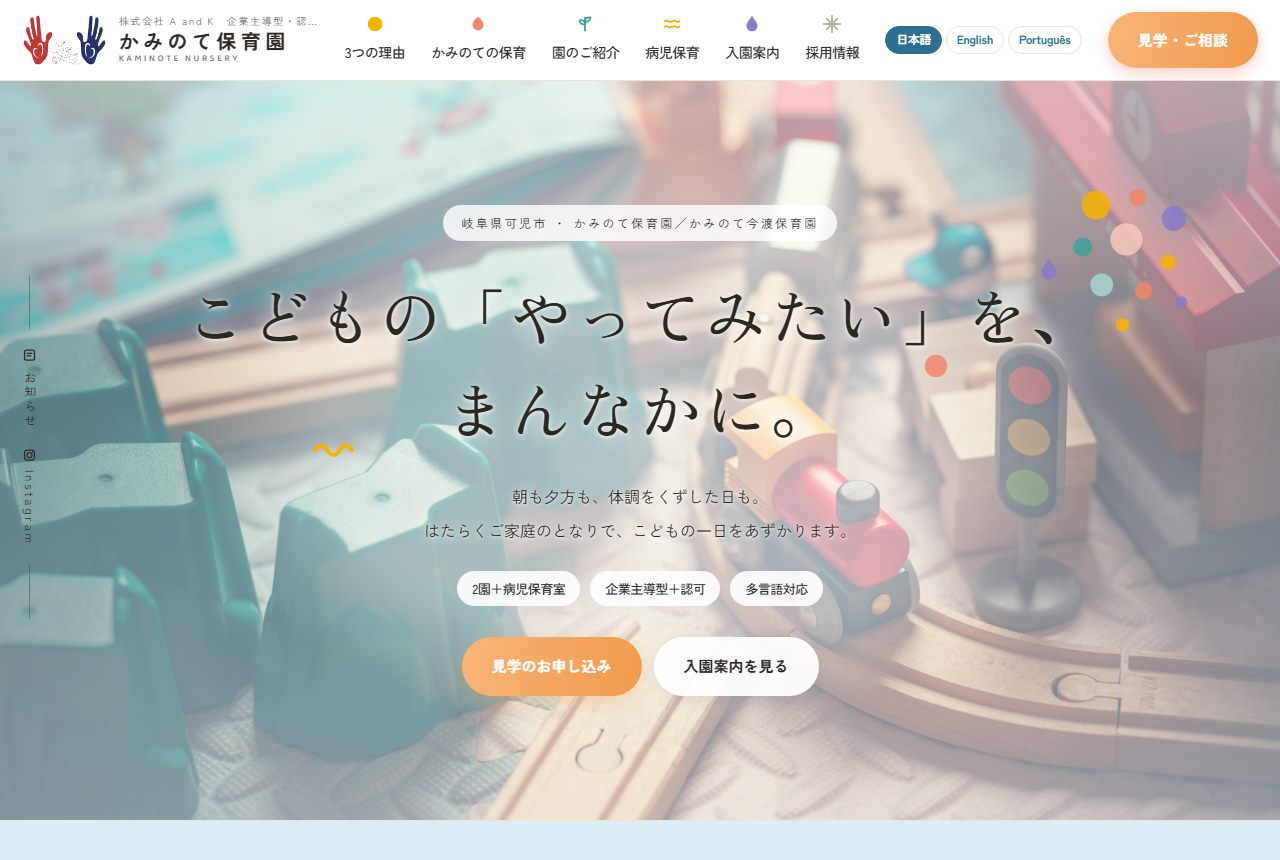
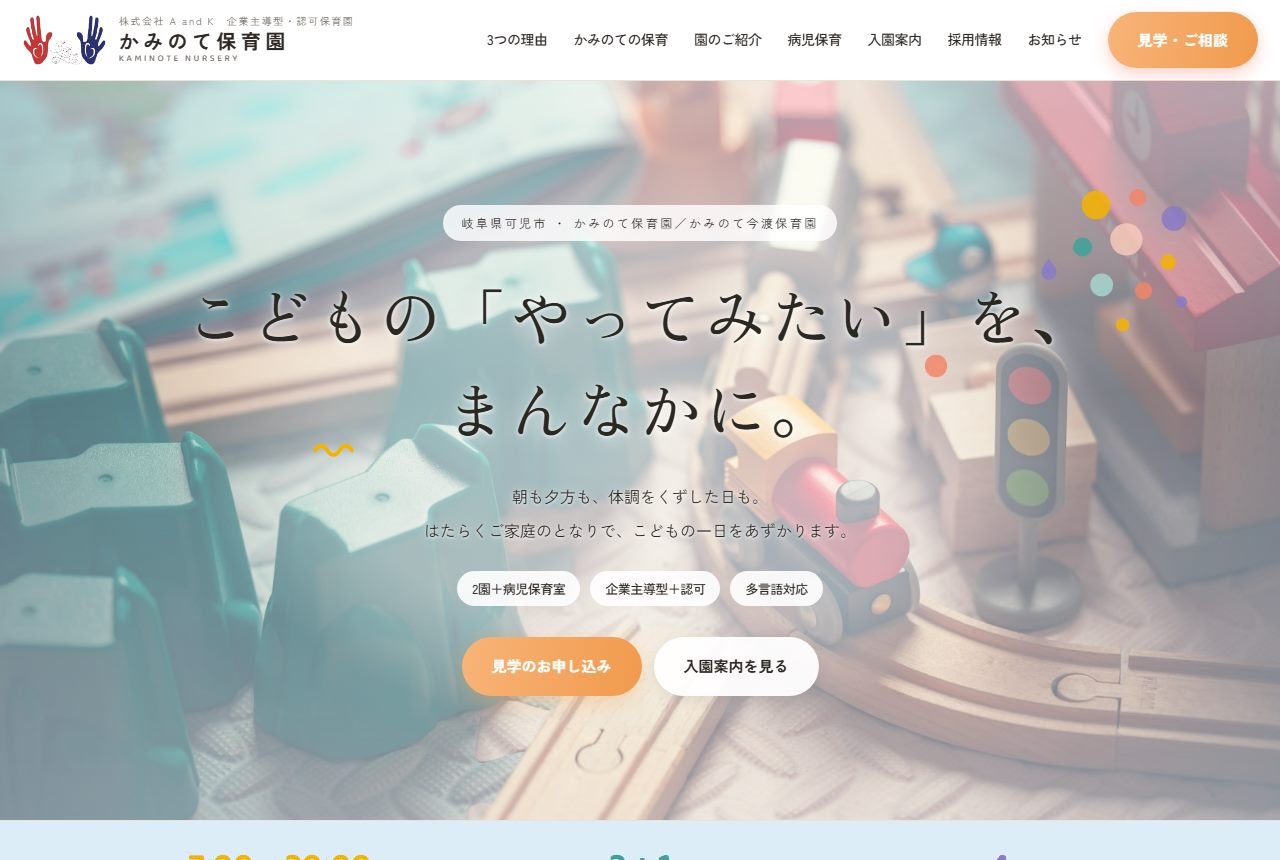
リンクを分割版に差し替え、キャプチャを撮り直す

diff --git a/design.html b/design.html
@@ -577,6 +577,7 @@
       <h2>デザイン案</h2>
       <p class="lede">
         トップ画面のキャプチャです。「実物を見る」から開くと、最後まで見られます。
+        メニューの各項目はそれぞれ別のページになっていますので、そちらもあわせてご覧ください。
       </p>
 
       <p style="margin:0 0 1.4rem">まず保育園サイトの3案です。
@@ -588,33 +589,33 @@
         <div class="mock-head">
           <h3>保育園サイト　案A</h3>
         </div>
-        <a class="shot" href="https://k-matsumoto527.github.io/kaminote-design/plan-a.html" target="_blank" rel="noopener">
+        <a class="shot" href="https://k-matsumoto527.github.io/kaminote-design/a/" target="_blank" rel="noopener">
           <img src="img/preview-a.jpg" alt="保育園サイト トップページ デザイン案A" width="1280" height="860" loading="lazy">
         </a>
-        <a class="open-btn" href="https://k-matsumoto527.github.io/kaminote-design/plan-a.html" target="_blank" rel="noopener">実物を見る</a>
-        <div class="open-url">https://k-matsumoto527.github.io/kaminote-design/plan-a.html</div>
+        <a class="open-btn" href="https://k-matsumoto527.github.io/kaminote-design/a/" target="_blank" rel="noopener">実物を見る</a>
+        <div class="open-url">https://k-matsumoto527.github.io/kaminote-design/a/</div>
       </div>
 
       <div class="mock">
         <div class="mock-head">
           <h3>保育園サイト　案B</h3>
         </div>
-        <a class="shot" href="https://k-matsumoto527.github.io/kaminote-design/plan-b.html" target="_blank" rel="noopener">
+        <a class="shot" href="https://k-matsumoto527.github.io/kaminote-design/b/" target="_blank" rel="noopener">
           <img src="img/preview-b.jpg" alt="保育園サイト トップページ デザイン案B" width="1280" height="854" loading="lazy">
         </a>
-        <a class="open-btn" href="https://k-matsumoto527.github.io/kaminote-design/plan-b.html" target="_blank" rel="noopener">実物を見る</a>
-        <div class="open-url">https://k-matsumoto527.github.io/kaminote-design/plan-b.html</div>
+        <a class="open-btn" href="https://k-matsumoto527.github.io/kaminote-design/b/" target="_blank" rel="noopener">実物を見る</a>
+        <div class="open-url">https://k-matsumoto527.github.io/kaminote-design/b/</div>
       </div>
 
       <div class="mock">
         <div class="mock-head">
           <h3>保育園サイト　案C</h3>
         </div>
-        <a class="shot" href="https://k-matsumoto527.github.io/kaminote-design/plan-c.html" target="_blank" rel="noopener">
+        <a class="shot" href="https://k-matsumoto527.github.io/kaminote-design/c/" target="_blank" rel="noopener">
           <img src="img/preview-c.jpg" alt="保育園サイト トップページ デザイン案C" width="1280" height="860" loading="lazy">
         </a>
-        <a class="open-btn" href="https://k-matsumoto527.github.io/kaminote-design/plan-c.html" target="_blank" rel="noopener">実物を見る</a>
-        <div class="open-url">https://k-matsumoto527.github.io/kaminote-design/plan-c.html</div>
+        <a class="open-btn" href="https://k-matsumoto527.github.io/kaminote-design/c/" target="_blank" rel="noopener">実物を見る</a>
+        <div class="open-url">https://k-matsumoto527.github.io/kaminote-design/c/</div>
       </div>
 
       <p style="margin:2.4rem 0 1.4rem">放課後等デイサイトも、同じ3つの方向で3案お作りしました。
@@ -644,33 +645,33 @@
         <div class="mock-head">
           <h3>放課後等デイサイト　案A</h3>
         </div>
-        <a class="shot" href="https://k-matsumoto527.github.io/kaminote-day-design/plan-a.html" target="_blank" rel="noopener">
+        <a class="shot" href="https://k-matsumoto527.github.io/kaminote-day-design/a/" target="_blank" rel="noopener">
           <img src="img/preview-day-a.jpg" alt="放課後等デイサイト トップページ デザイン案A" width="1280" height="860" loading="lazy">
         </a>
-        <a class="open-btn" href="https://k-matsumoto527.github.io/kaminote-day-design/plan-a.html" target="_blank" rel="noopener">実物を見る</a>
-        <div class="open-url">https://k-matsumoto527.github.io/kaminote-day-design/plan-a.html</div>
+        <a class="open-btn" href="https://k-matsumoto527.github.io/kaminote-day-design/a/" target="_blank" rel="noopener">実物を見る</a>
+        <div class="open-url">https://k-matsumoto527.github.io/kaminote-day-design/a/</div>
       </div>
 
       <div class="mock">
         <div class="mock-head">
           <h3>放課後等デイサイト　案B</h3>
         </div>
-        <a class="shot" href="https://k-matsumoto527.github.io/kaminote-day-design/plan-b.html" target="_blank" rel="noopener">
+        <a class="shot" href="https://k-matsumoto527.github.io/kaminote-day-design/b/" target="_blank" rel="noopener">
           <img src="img/preview-day-b.jpg" alt="放課後等デイサイト トップページ デザイン案B" width="1280" height="860" loading="lazy">
         </a>
-        <a class="open-btn" href="https://k-matsumoto527.github.io/kaminote-day-design/plan-b.html" target="_blank" rel="noopener">実物を見る</a>
-        <div class="open-url">https://k-matsumoto527.github.io/kaminote-day-design/plan-b.html</div>
+        <a class="open-btn" href="https://k-matsumoto527.github.io/kaminote-day-design/b/" target="_blank" rel="noopener">実物を見る</a>
+        <div class="open-url">https://k-matsumoto527.github.io/kaminote-day-design/b/</div>
       </div>
 
       <div class="mock">
         <div class="mock-head">
           <h3>放課後等デイサイト　案C</h3>
         </div>
-        <a class="shot" href="https://k-matsumoto527.github.io/kaminote-day-design/plan-c.html" target="_blank" rel="noopener">
+        <a class="shot" href="https://k-matsumoto527.github.io/kaminote-day-design/c/" target="_blank" rel="noopener">
           <img src="img/preview-day-c.jpg" alt="放課後等デイサイト トップページ デザイン案C" width="1280" height="860" loading="lazy">
         </a>
-        <a class="open-btn" href="https://k-matsumoto527.github.io/kaminote-day-design/plan-c.html" target="_blank" rel="noopener">実物を見る</a>
-        <div class="open-url">https://k-matsumoto527.github.io/kaminote-day-design/plan-c.html</div>
+        <a class="open-btn" href="https://k-matsumoto527.github.io/kaminote-day-design/c/" target="_blank" rel="noopener">実物を見る</a>
+        <div class="open-url">https://k-matsumoto527.github.io/kaminote-day-design/c/</div>
       </div>
 
       <div class="callout" style="margin-top:2rem">

diff --git a/src/design-kaminote.html b/src/design-kaminote.html
@@ -554,6 +554,7 @@
       <h2>デザイン案</h2>
       <p class="lede">
         トップ画面のキャプチャです。「実物を見る」から開くと、最後まで見られます。
+        メニューの各項目はそれぞれ別のページになっていますので、そちらもあわせてご覧ください。
       </p>
 
       <p style="margin:0 0 1.4rem">まず保育園サイトの3案です。
@@ -565,33 +566,33 @@
         <div class="mock-head">
           <h3>保育園サイト　案A</h3>
         </div>
-        <a class="shot" href="https://k-matsumoto527.github.io/kaminote-design/plan-a.html" target="_blank" rel="noopener">
+        <a class="shot" href="https://k-matsumoto527.github.io/kaminote-design/a/" target="_blank" rel="noopener">
           <img src="img/preview-a.jpg" alt="保育園サイト トップページ デザイン案A" width="1280" height="860" loading="lazy">
         </a>
-        <a class="open-btn" href="https://k-matsumoto527.github.io/kaminote-design/plan-a.html" target="_blank" rel="noopener">実物を見る</a>
-        <div class="open-url">https://k-matsumoto527.github.io/kaminote-design/plan-a.html</div>
+        <a class="open-btn" href="https://k-matsumoto527.github.io/kaminote-design/a/" target="_blank" rel="noopener">実物を見る</a>
+        <div class="open-url">https://k-matsumoto527.github.io/kaminote-design/a/</div>
       </div>
 
       <div class="mock">
         <div class="mock-head">
           <h3>保育園サイト　案B</h3>
         </div>
-        <a class="shot" href="https://k-matsumoto527.github.io/kaminote-design/plan-b.html" target="_blank" rel="noopener">
+        <a class="shot" href="https://k-matsumoto527.github.io/kaminote-design/b/" target="_blank" rel="noopener">
           <img src="img/preview-b.jpg" alt="保育園サイト トップページ デザイン案B" width="1280" height="854" loading="lazy">
         </a>
-        <a class="open-btn" href="https://k-matsumoto527.github.io/kaminote-design/plan-b.html" target="_blank" rel="noopener">実物を見る</a>
-        <div class="open-url">https://k-matsumoto527.github.io/kaminote-design/plan-b.html</div>
+        <a class="open-btn" href="https://k-matsumoto527.github.io/kaminote-design/b/" target="_blank" rel="noopener">実物を見る</a>
+        <div class="open-url">https://k-matsumoto527.github.io/kaminote-design/b/</div>
       </div>
 
       <div class="mock">
         <div class="mock-head">
           <h3>保育園サイト　案C</h3>
         </div>
-        <a class="shot" href="https://k-matsumoto527.github.io/kaminote-design/plan-c.html" target="_blank" rel="noopener">
+        <a class="shot" href="https://k-matsumoto527.github.io/kaminote-design/c/" target="_blank" rel="noopener">
           <img src="img/preview-c.jpg" alt="保育園サイト トップページ デザイン案C" width="1280" height="860" loading="lazy">
         </a>
-        <a class="open-btn" href="https://k-matsumoto527.github.io/kaminote-design/plan-c.html" target="_blank" rel="noopener">実物を見る</a>
-        <div class="open-url">https://k-matsumoto527.github.io/kaminote-design/plan-c.html</div>
+        <a class="open-btn" href="https://k-matsumoto527.github.io/kaminote-design/c/" target="_blank" rel="noopener">実物を見る</a>
+        <div class="open-url">https://k-matsumoto527.github.io/kaminote-design/c/</div>
       </div>
 
       <p style="margin:2.4rem 0 1.4rem">放課後等デイサイトも、同じ3つの方向で3案お作りしました。
@@ -621,33 +622,33 @@
         <div class="mock-head">
           <h3>放課後等デイサイト　案A</h3>
         </div>
-        <a class="shot" href="https://k-matsumoto527.github.io/kaminote-day-design/plan-a.html" target="_blank" rel="noopener">
+        <a class="shot" href="https://k-matsumoto527.github.io/kaminote-day-design/a/" target="_blank" rel="noopener">
           <img src="img/preview-day-a.jpg" alt="放課後等デイサイト トップページ デザイン案A" width="1280" height="860" loading="lazy">
         </a>
-        <a class="open-btn" href="https://k-matsumoto527.github.io/kaminote-day-design/plan-a.html" target="_blank" rel="noopener">実物を見る</a>
-        <div class="open-url">https://k-matsumoto527.github.io/kaminote-day-design/plan-a.html</div>
+        <a class="open-btn" href="https://k-matsumoto527.github.io/kaminote-day-design/a/" target="_blank" rel="noopener">実物を見る</a>
+        <div class="open-url">https://k-matsumoto527.github.io/kaminote-day-design/a/</div>
       </div>
 
       <div class="mock">
         <div class="mock-head">
           <h3>放課後等デイサイト　案B</h3>
         </div>
-        <a class="shot" href="https://k-matsumoto527.github.io/kaminote-day-design/plan-b.html" target="_blank" rel="noopener">
+        <a class="shot" href="https://k-matsumoto527.github.io/kaminote-day-design/b/" target="_blank" rel="noopener">
           <img src="img/preview-day-b.jpg" alt="放課後等デイサイト トップページ デザイン案B" width="1280" height="860" loading="lazy">
         </a>
-        <a class="open-btn" href="https://k-matsumoto527.github.io/kaminote-day-design/plan-b.html" target="_blank" rel="noopener">実物を見る</a>
-        <div class="open-url">https://k-matsumoto527.github.io/kaminote-day-design/plan-b.html</div>
+        <a class="open-btn" href="https://k-matsumoto527.github.io/kaminote-day-design/b/" target="_blank" rel="noopener">実物を見る</a>
+        <div class="open-url">https://k-matsumoto527.github.io/kaminote-day-design/b/</div>
       </div>
 
       <div class="mock">
         <div class="mock-head">
           <h3>放課後等デイサイト　案C</h3>
         </div>
-        <a class="shot" href="https://k-matsumoto527.github.io/kaminote-day-design/plan-c.html" target="_blank" rel="noopener">
+        <a class="shot" href="https://k-matsumoto527.github.io/kaminote-day-design/c/" target="_blank" rel="noopener">
           <img src="img/preview-day-c.jpg" alt="放課後等デイサイト トップページ デザイン案C" width="1280" height="860" loading="lazy">
         </a>
-        <a class="open-btn" href="https://k-matsumoto527.github.io/kaminote-day-design/plan-c.html" target="_blank" rel="noopener">実物を見る</a>
-        <div class="open-url">https://k-matsumoto527.github.io/kaminote-day-design/plan-c.html</div>
+        <a class="open-btn" href="https://k-matsumoto527.github.io/kaminote-day-design/c/" target="_blank" rel="noopener">実物を見る</a>
+        <div class="open-url">https://k-matsumoto527.github.io/kaminote-day-design/c/</div>
       </div>
 
       <div class="callout" style="margin-top:2rem">
